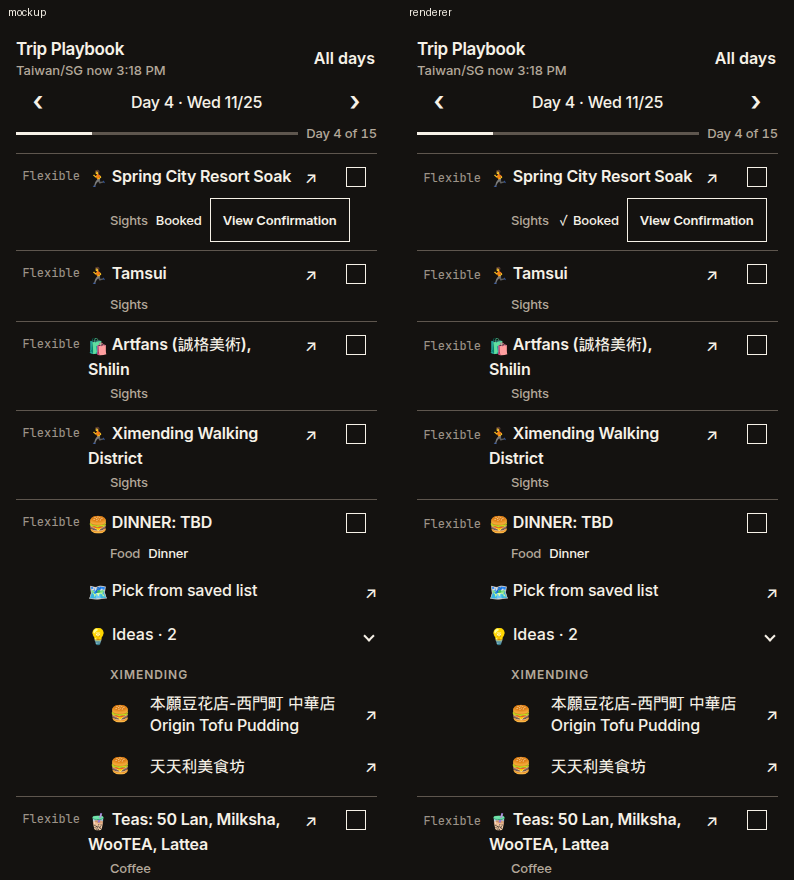
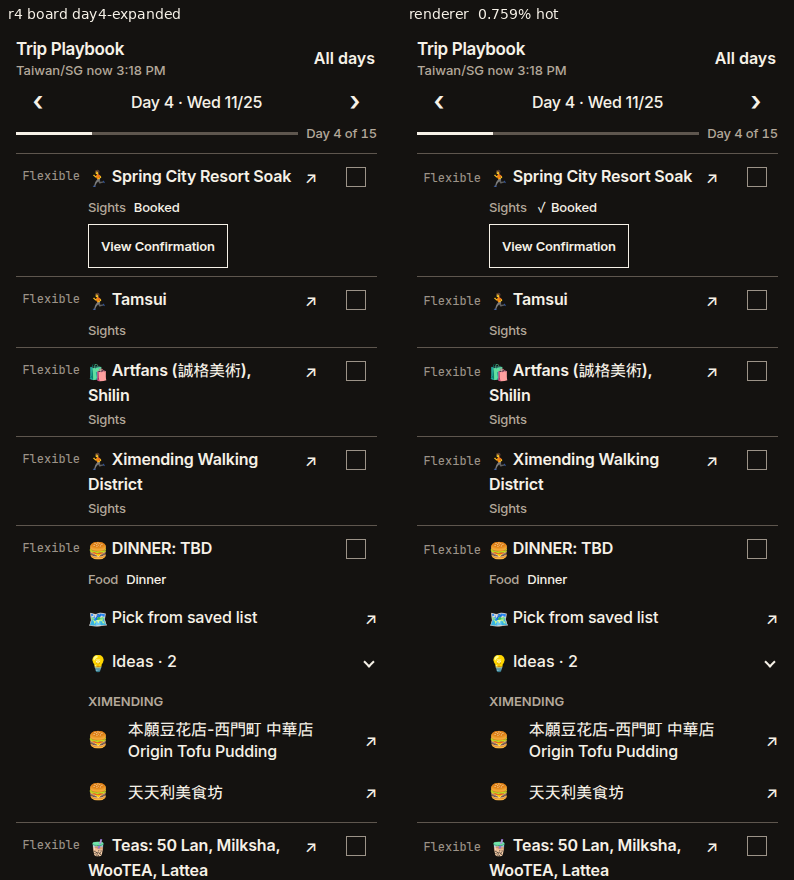
fix(playbook): match the chosen board screens
The night board follows the r4 board screenshots. The photo is 112px with a hairline, the day numeral is 56px, and rail times are ink except the current stop.

diff --git a/index.html b/index.html
@@ -179,41 +179,32 @@
         white-space: nowrap;
       }
       .plate {
-        position: relative;
         margin: 8px -16px 0;
-        height: 88px;
+        height: 112px;
         overflow: hidden;
         background: #0c0b09;
-      }
-      .plate::after {
-        content: "";
-        position: absolute;
-        left: 0;
-        right: 0;
-        bottom: 0;
-        height: 28px;
-        background: linear-gradient(to bottom, rgba(20, 18, 16, 0), #141210);
+        border-bottom: 1px solid var(--rule);
       }
       .plate img {
         display: block;
         width: 100%;
-        height: 88px;
+        height: 112px;
         object-fit: cover;
-        object-position: center 38%;
+        object-position: center 40%;
       }
-      .plate.singapore img { object-position: center 58%; }
+      .plate.singapore img { object-position: center 62%; }
       .dayhead, .stay, .nowbox {
         display: grid;
         grid-template-columns: 64px minmax(0, 1fr) 44px;
         column-gap: 8px;
       }
-      .dayhead { align-items: center; padding-top: 10px; }
+      .dayhead { align-items: center; padding-top: 12px; }
       .dnum {
         grid-column: 1;
         grid-row: 1;
         text-align: left;
-        font-size: 40px;
-        line-height: 1;
+        font-size: 56px;
+        line-height: 0.8;
         font-weight: 700;
         letter-spacing: -0.045em;
         font-variant-numeric: tabular-nums;
@@ -226,7 +217,7 @@
         font-weight: 600;
       }
       .areas {
-        grid-column: 2 / -1;
+        grid-column: 1 / -1;
         margin-top: 8px;
         font-size: 16px;
         line-height: 22px;
@@ -234,7 +225,7 @@
         overflow-wrap: break-word;
       }
       .alarm {
-        grid-column: 2 / -1;
+        grid-column: 1 / -1;
         margin-top: 8px;
         font-size: 13px;
         line-height: 18px;
@@ -242,9 +233,11 @@
       }
       .al { color: var(--muted); font-weight: 400; }
       .big {
-        font-size: 16px;
+        font-family: "JetBrains Mono", ui-monospace, monospace;
+        font-size: 15px;
         line-height: 22px;
-        font-weight: 600;
+        font-weight: 500;
+        letter-spacing: 0;
         font-variant-numeric: tabular-nums;
       }
       .em {
@@ -315,9 +308,9 @@
       .fchip.on::after {
         content: "";
         position: absolute;
-        left: 8px;
-        right: 8px;
-        bottom: 8px;
+        left: 6px;
+        right: 6px;
+        bottom: 0;
         height: 2px;
         background: var(--ink);
       }
@@ -383,7 +376,7 @@
         font-size: 12px;
         line-height: 22px;
         letter-spacing: 0;
-        color: var(--amber);
+        color: var(--ink);
       }
       .row > .when,
       .crow > .when { padding-top: 13px; }
@@ -417,10 +410,10 @@
         top: 13px;
         width: 18px;
         height: 18px;
-        border: 1.5px solid var(--ink);
+        border: 1.5px solid var(--quiet);
         background: transparent;
       }
-      .done[aria-pressed="true"]::before { background: #f6f1e7; }
+      .done[aria-pressed="true"]::before { background: #f6f1e7; border-color: #f6f1e7; }
       .done[aria-pressed="true"]::after {
         content: "";
         position: absolute;
@@ -434,12 +427,13 @@
       }
       .meta, .trv, .note, .rowlink, .exp, .panel, .dayof, .dl, .late { grid-column: 2 / -1; }
       .meta {
+        grid-column: 2;
         display: flex;
         flex-wrap: wrap;
         align-items: center;
         gap: 8px;
         min-width: 0;
-        padding: 0 0 8px 22px;
+        padding: 0 0 8px;
       }
       .tag {
         font-size: 13px;
@@ -463,8 +457,8 @@
       .badge.now { background: var(--amber); color: var(--now-ink); }
       .badge.nx {
         background: transparent;
-        color: var(--amber);
-        box-shadow: inset 0 0 0 1px var(--amber);
+        color: var(--ink);
+        box-shadow: inset 0 0 0 1px var(--ink);
       }
       .chip {
         display: inline-flex;
@@ -488,13 +482,13 @@
       }
       .trv { margin: 0 0 4px; }
       .sub, .dayof, .dl { padding: 8px 0; }
-      .panel { padding: 0 0 8px 22px; }
+      .panel { padding: 0 0 8px; }
       .ia {
         padding-top: 8px;
-        font-size: 12px;
+        font-size: 13px;
         line-height: 18px;
         font-weight: 600;
-        letter-spacing: 0.08em;
+        letter-spacing: 0;
         color: var(--muted);
       }
       .det div { padding: 8px 0; white-space: pre-wrap; }
@@ -580,7 +574,7 @@
         line-height: 22px;
         font-weight: 500;
         letter-spacing: 0;
-        color: var(--amber);
+        color: var(--ink);
       }
       .ovr .on, .bi { font-size: 16px; line-height: 22px; font-weight: 600; overflow-wrap: anywhere; }
       .oa, .prov, .on2 { color: var(--muted); font-size: 13px; line-height: 18px; overflow-wrap: anywhere; }
